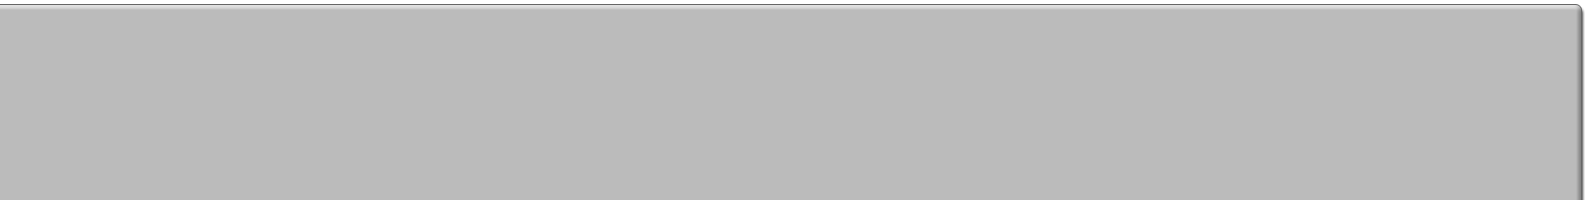
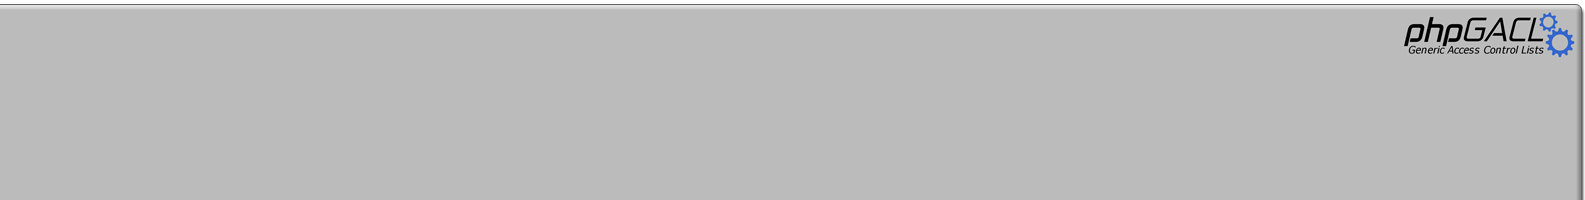
Fixed object_search javascript bug, cleaned up admin navigation html

Changed region(s): [[0.8656, 0.06, 1.0, 0.27]]

diff --git a/admin/admin_functions.js b/admin/admin_functions.js
@@ -76,14 +76,14 @@ function select_item(parent_form_element, src_form_element, dst_form_element) {
 			if (!found_dup) {
 				//Grab the current selected value from the parent
 				src_id = src_form_element.options[i].value;
-				src_text = src_form_element.options[i].text;				
+				src_text = src_form_element.options[i].text;
 				
 				src_section_id = parent_form_element.options[parent_form_element.selectedIndex].value;
 				src_section_text = parent_form_element.options[parent_form_element.selectedIndex].text;
 				
 				options_length = dst_form_element.options.length;
 				dst_form_element.options[options_length] = new Option(src_section_text + ' > ' + src_text, src_section_id + '^' + src_id);
-				dst_form_element.options[options_length].selected = true;			   
+				// dst_form_element.options[options_length].selected = true;
 			}
 		}
 		
@@ -108,10 +108,7 @@ function deselect_item(form_element) {
 //Used to unselect all items in a combo box
 function unselect_all(form_element) {
 	for (i=0; i < form_element.options.length; i++) {
-		if (form_element.options[i].selected) {
-			form_element.options[i].selected = false;
-			i=i - 1;
-		}
+		form_element.options[i].selected = false;
 	}
 }
 

diff --git a/admin/admin.css b/admin/admin.css
@@ -28,43 +28,32 @@ div#top-br {
 
 div#top-bl {
 	margin: 0px;
-	padding: 10px 8px 0px 10px;
+	padding: 10px 180px 0px 10px;
 	background: url("images/div-l.png") no-repeat bottom left;
 }
 
-div#top-bl table,
-div#top-bl table tr {
-	background-color: transparent;
-}
-
 div#top-bl h1 {
-	padding: 0px;
-	margin: 0px 0px 1px 0px;
-	width: 176px;
-	height: 48px;
-	background: url("images/logo.png") no-repeat top right;
-}
-
-div#top-bl h1 span {
+	position: absolute;
 	visibility: hidden;
 }
 
 div#top-bl h2 {
 	color: #eeeeee;
 	font-size: 150%;
-	margin: 0px 4px 6px;
+	margin: 6px 4px;
 	padding: 0px;
 }
 
 ul#menu {
 	margin: 0px;
 	padding: 0px;
-	list-style: none;
-	display: block;
+	
+	display: table;
+	width: 100%;
+	list-style-type: none;
 }
 
 ul#menu li {
-	display: inline;
 	float: left;
 	
 	margin: 0px 2px 0px 0px;

diff --git a/admin/group_admin.php b/admin/group_admin.php
@@ -70,7 +70,7 @@ switch ($_POST['action']) {
 $smarty->assign('group_type', $group_type);
 $smarty->assign('return_page', $_SERVER['REQUEST_URI']);
 
-$smarty->assign('current', $group_type .'_group_admin');
+$smarty->assign('current', $group_type .'_group');
 $smarty->assign('page_title', strtoupper($group_type) .' Group Admin');
 
 $smarty->assign('phpgacl_version', $gacl_api->get_version());
